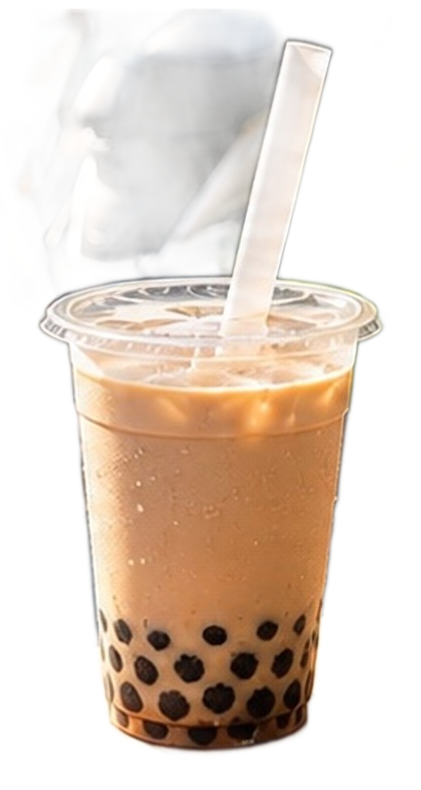
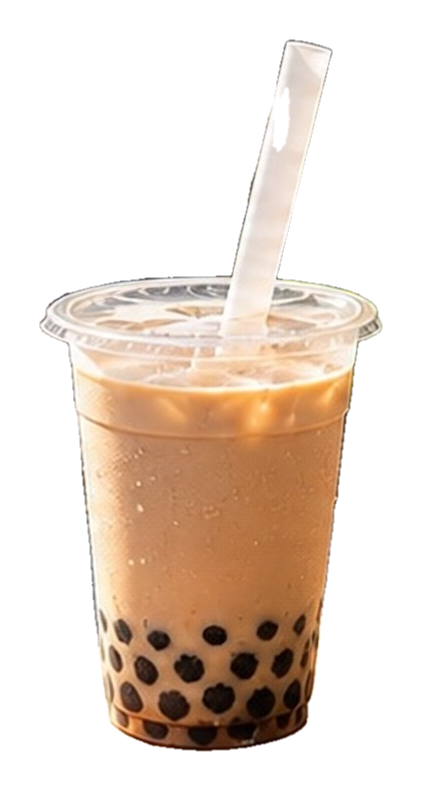
Header video: clean cut-outs and tags that do not overlap
rembg left a half-transparent ghost of the scooter behind the cup, which
showed as a white patch on the sticker: keep only the solid largest part of
each mask. The scooter's tag now hangs from its front and the cup's a little
lower, so the two tags no longer overlap on the daytime photo.

Claude-Session: https://claude.ai/code/session_01EcQeEqhU5JhfyMYG1ppPTa

diff --git a/docs/design/store-header/prep.py b/docs/design/store-header/prep.py
@@ -28,7 +28,7 @@ BOXES = {
     "sign": (2380, 840, 2900, 1430),
 }
 # タグの付け根（物の範囲の中の割合）。アプリのタグと同じく、物の上の点から上へ出る
-ANCHOR = {"cup": (0.5, 0.52), "scooter": (0.24, 0.56), "sign": (0.5, 0.42)}
+ANCHOR = {"cup": (0.5, 0.6), "scooter": (0.12, 0.5), "sign": (0.5, 0.42)}
 
 
 def upscale(src, model):
@@ -71,8 +71,12 @@ def objects():
     masks = {}
     for k, (x0, y0, x1, y1) in BOXES.items():
         m = np.array(remove(cv2.cvtColor(im[y0:y1, x0:x1], cv2.COLOR_BGR2RGB), session=sess, only_mask=True))
+        # 半分透けた所（後ろの物が薄く残る）を捨て、いちばん大きい塊だけ残す
+        b = (m > 128).astype(np.uint8)
+        n, lab, st, _ = cv2.connectedComponentsWithStats(b)
+        b = (lab == 1 + int(np.argmax(st[1:, 4]))).astype(np.uint8) * 255
         full = np.zeros((H, W), np.uint8)
-        full[y0:y1, x0:x1] = m
+        full[y0:y1, x0:x1] = b
         masks[k] = full
     # バイクは手前のカップの後ろ: カップの分を引く
     masks["scooter"][cv2.dilate(masks["cup"], np.ones((9, 9), np.uint8)) > 100] = 0
